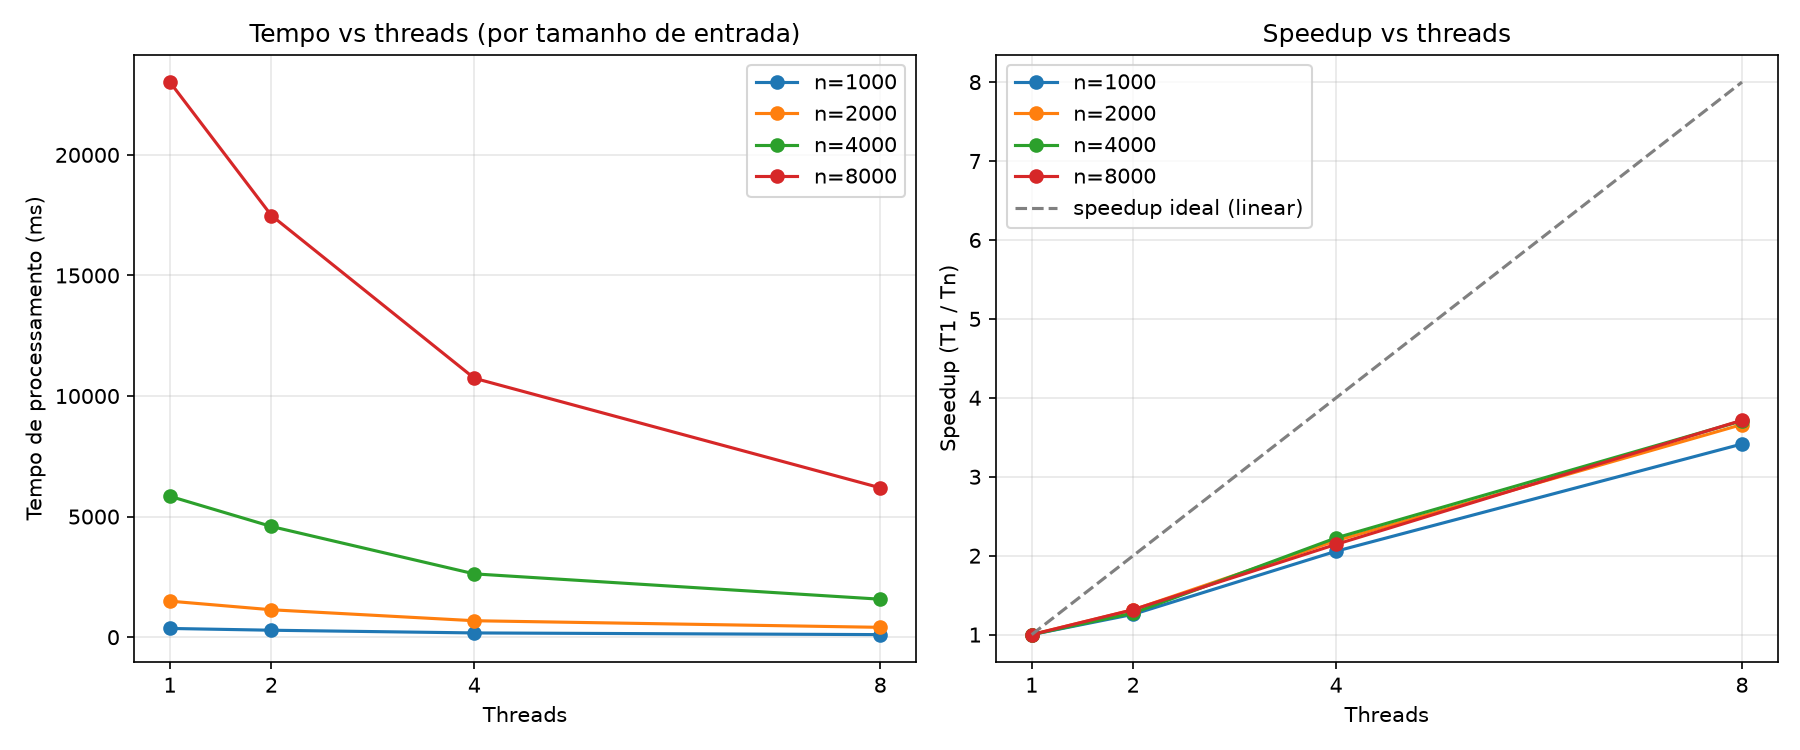
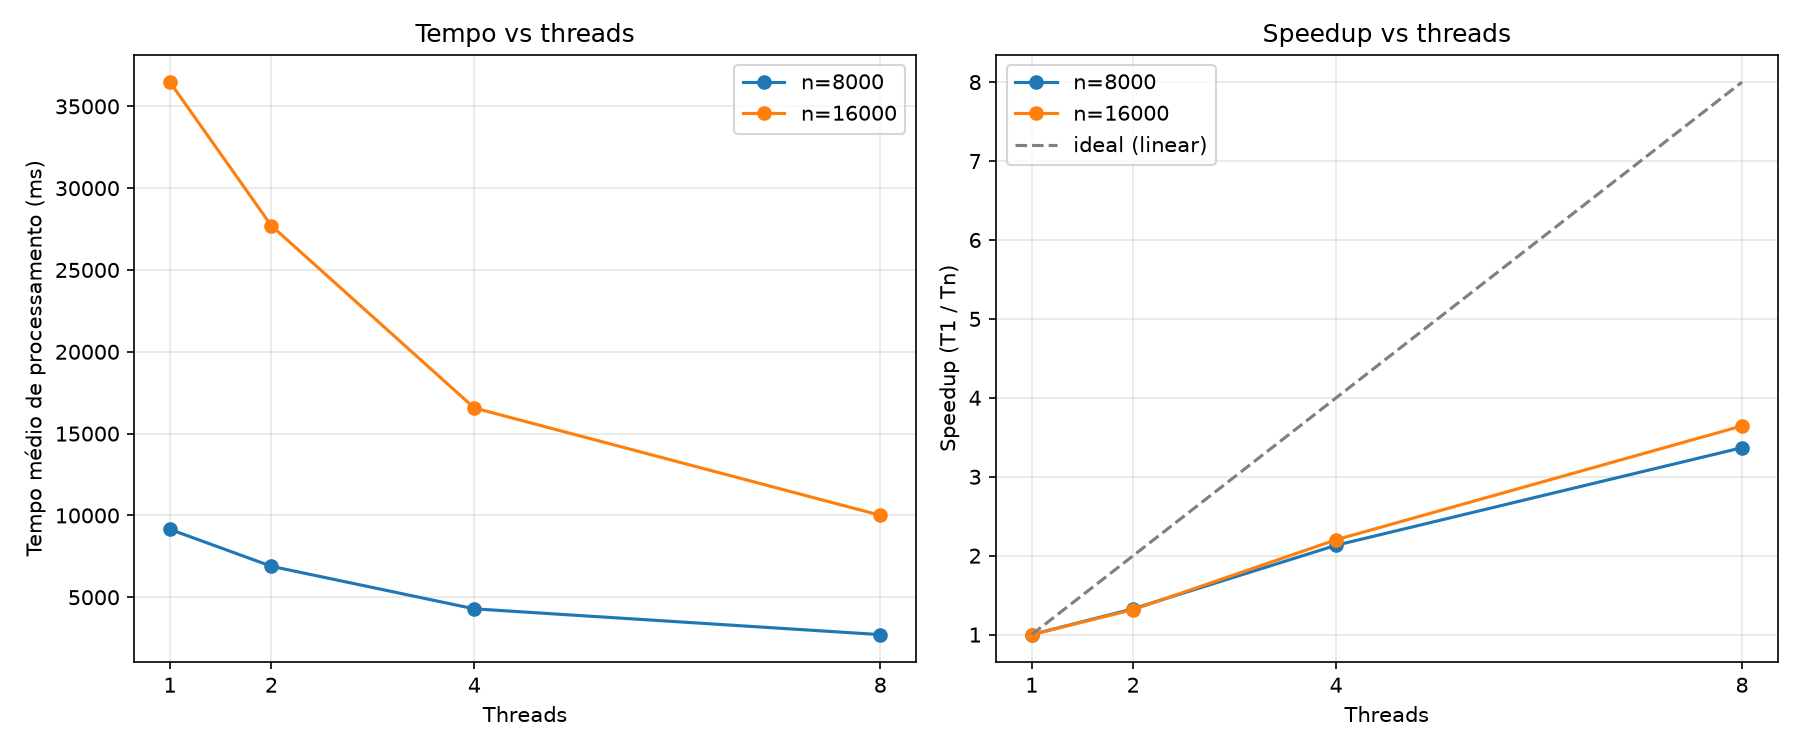
feat: correcoes da U1 de AED e verificacao do Render

diff --git a/bench/plot_speedup.py b/bench/plot_speedup.py
@@ -1,18 +1,28 @@
 import csv
 import matplotlib
+import os
 matplotlib.use("Agg")
 import matplotlib.pyplot as plt
 
+script_dir = os.path.dirname(os.path.abspath(__file__))
+agg_csv = os.path.join(script_dir, "measurements_agg.csv")
+out_img = os.path.join(script_dir, "speedup.png")
+
 rows = []
-with open("bench/measurements.csv") as f:
+with open(agg_csv, encoding='utf-8-sig') as f:
     for r in csv.DictReader(f):
         rows.append(r)
 
 sizes = sorted({int(r["size"]) for r in rows})
 platform = {s: {} for s in sizes}
+speedup_map = {s: {} for s in sizes}
+
 for r in rows:
     if r["mode"] == "platform":
-        platform[int(r["size"])][int(r["threads"])] = int(r["processingTimeMs"])
+        s = int(r["size"])
+        t = int(r["threads"])
+        platform[s][t] = float(r["avgProcessingTimeMs"])
+        speedup_map[s][t] = float(r["speedup"])
 
 fig, (ax1, ax2) = plt.subplots(1, 2, figsize=(12, 5))
 
@@ -22,19 +32,18 @@ for s in sizes:
     ax1.plot(threads, times, marker="o", label=f"n={s}")
 
 ax1.set_xlabel("Threads")
-ax1.set_ylabel("Tempo de processamento (ms)")
-ax1.set_title("Tempo vs threads (por tamanho de entrada)")
+ax1.set_ylabel("Tempo médio de processamento (ms)")
+ax1.set_title("Tempo vs threads")
 ax1.set_xticks([1, 2, 4, 8])
 ax1.legend()
 ax1.grid(True, alpha=0.3)
 
 for s in sizes:
-    threads = sorted(platform[s].keys())
-    base = platform[s][1]
-    speedup = [base / platform[s][t] for t in threads]
-    ax2.plot(threads, speedup, marker="o", label=f"n={s}")
+    threads = sorted(speedup_map[s].keys())
+    sp = [speedup_map[s][t] for t in threads]
+    ax2.plot(threads, sp, marker="o", label=f"n={s}")
 
-ax2.plot([1, 2, 4, 8], [1, 2, 4, 8], linestyle="--", color="gray", label="speedup ideal (linear)")
+ax2.plot([1, 2, 4, 8], [1, 2, 4, 8], linestyle="--", color="gray", label="ideal (linear)")
 ax2.set_xlabel("Threads")
 ax2.set_ylabel("Speedup (T1 / Tn)")
 ax2.set_title("Speedup vs threads")
@@ -43,13 +52,13 @@ ax2.legend()
 ax2.grid(True, alpha=0.3)
 
 fig.tight_layout()
-fig.savefig("bench/speedup.png", dpi=150)
-print("saved bench/speedup.png")
+fig.savefig(out_img, dpi=150)
+print(f"Gráfico salvo em {out_img}")
 
-print("\n| n | threads | tempo(ms) | speedup |")
-print("|---|---------|-----------|---------|")
+print("\n| Tamanho (n) | Threads | Tempo Médio (ms) | Speedup |")
+print("|---|---|---|---|")
 for s in sizes:
-    base = platform[s][1]
     for t in sorted(platform[s].keys()):
         tm = platform[s][t]
-        print(f"| {s} | {t} | {tm} | {base/tm:.2f}x |")
+        sp = speedup_map[s][t]
+        print(f"| {s} | {t} | {tm:.2f} | {sp:.2f}x |")

diff --git a/README.md b/README.md
@@ -28,7 +28,7 @@ O Rota Vital simula a gestão de um banco de sangue com:
 - **Lista encadeada de estoque** — bolsas armazenadas em lista simplesmente encadeada com nós próprios
 - **Fila FIFO de requisições** — requisições emergenciais atendidas por ordem de chegada
 - **Pilha (LIFO)** — não foi implementada pois não existe histórico de operações no escopo atual.
-- **Equivalência C ↔ Java** — mesma lógica implementada nas duas linguagens reproduzindo os mesmos dados sintéticos diretamente no código para testes (foram aprovados 48 testes Java, 23 testes C da lista e 31 testes C da fila).
+- **Equivalência C ↔ Java** — mesma lógica implementada nas duas linguagens, reproduzindo os valores das fixtures (JSONs sintéticos) embutidos diretamente no código para testes (foram aprovados 27 testes Java, 19 testes C da lista e 29 testes C da fila).
 - **API REST** — endpoints Spring Boot que consomem as estruturas AED reais
 - **CI/CD** — GitHub Actions com testes C (AddressSanitizer), testes Java, Docker build e deploy
 
@@ -95,13 +95,13 @@ make clean
   OK: Lista recem-criada tem tamanho 0
   OK: Consulta em lista vazia retorna NULL
   ...
-=== Resultado: 23/23 testes passaram ===
+=== Resultado: 19/19 testes passaram ===
 SUCESSO: Todos os testes passaram sem erros de memoria!
 
 === Testes da Fila FIFO (AED U1 — C) ===
   OK: Fila recem-criada tem tamanho 0
   ...
-=== Resultado: 31/31 testes passaram ===
+=== Resultado: 29/29 testes passaram ===
 SUCESSO: Todos os testes passaram sem erros de memoria!
 ```
 
@@ -198,15 +198,23 @@ curl "http://localhost:8080/api/duplicates/detect?size=8000&threads=8&mode=platf
 
 A operação de detecção de duplicatas (algoritmo _fuzzy_ usando distância de Levenshtein) foi o gargalo CPU-bound identificado. Com 8000 registros, o algoritmo O(n²) realiza milhões de comparações:
 
-| Modo | Tempo (ms) | Speedup (vs 1 thread) |
-|---|---|---|
-| 1 thread (sequencial) | 23.017 | 1.00x |
-| 2 threads | 17.486 | 1.32x |
-| 4 threads | 10.737 | 2.14x |
-| 8 threads | 6.194 | 3.72x |
-| 8 virtual threads | 6.343 | 3.63x |
+O ambiente de execução e a coleta seguiram o seguinte método rigoroso:
+- **Aquecimento (Warmup):** Realizada 1 execução prévia para descartar tempos de inicialização e compilação JIT da JVM.
+- **Repetições e Agregação:** 5 repetições para cada configuração (1, 2, 4 e 8 threads). O PowerShell extraiu da resposta JSON o `processingTimeMs` real (descartando a latência da rede HTTP) e calculou as médias agregadas para o speedup.
+- **Validação:** Todas as variações e threads encontraram exatamente o mesmo número de duplicatas. Erros HTTP e divergências abortariam o benchmark.
 
-> Os detalhes completos do relatório de paralelização, o gráfico de análise de speedup e a base analítica com arquivo `.csv` estão localizados em `docs/threads/` e `bench/`.
+| Tamanho (n) | Threads | Tempo Médio (ms) | Speedup |
+|---|---|---|---|
+| 8000 | 1 | 9149.00 | 1.00x |
+| 8000 | 2 | 6891.80 | 1.33x |
+| 8000 | 4 | 4291.20 | 2.13x |
+| 8000 | 8 | 2716.20 | 3.37x |
+| 16000 | 1 | 36479.60 | 1.00x |
+| 16000 | 2 | 27703.40 | 1.32x |
+| 16000 | 4 | 16565.00 | 2.20x |
+| 16000 | 8 | 10010.80 | 3.64x |
+
+> Os detalhes completos do relatório de paralelização, o gráfico gerado `bench/speedup.png` e os dados brutos e agregados `.csv` estão localizados em `docs/threads/` e `bench/`.
 
 ---
 

diff --git a/docs/equivalencia-u1.md b/docs/equivalencia-u1.md
@@ -281,6 +281,27 @@ public Optional<Requisicao> desenfileirar() {
 - C exige `free()` explícito; Java delega ao garbage collector.
 - **A lógica FIFO e o tratamento de cauda quando a fila esvazia são idênticos.**
 
+### 2.5 Espiar (sem remover)
+
+```c
+// C — fila_espiar()
+int fila_espiar(const Fila *f, Requisicao *out) {
+    if (f->cabeca == NULL) return 0;
+    *out = f->cabeca->requisicao;       // apenas copia o dado
+    return 1;                           // não mexe nos ponteiros
+}
+```
+
+```java
+// Java — espiar()
+public Optional<Requisicao> espiar() {
+    if (cabeca == null) return Optional.empty();
+    return Optional.of(cabeca.dado);    // retorna o dado sem alterar ponteiros
+}
+```
+
+**Ambas as implementações:** consultam o primeiro elemento (cabeça) sem removê-lo, preservam a ordem atual e o tamanho da fila, e executam em **O(1)**.
+
 ---
 
 ## 3. Resumo de Complexidade
@@ -289,7 +310,7 @@ public Optional<Requisicao> desenfileirar() {
 |---|---|---|
 | Criar | O(1) | O(1) |
 | Inserir/Enfileirar | O(1) | O(1) |
-| Consultar | O(n) | — |
+| Consultar/Espiar | O(n) | O(1) |
 | Remover/Desenfileirar | O(n) / O(1)* | O(1) |
 | Liberar | O(n) | O(n) |
 
